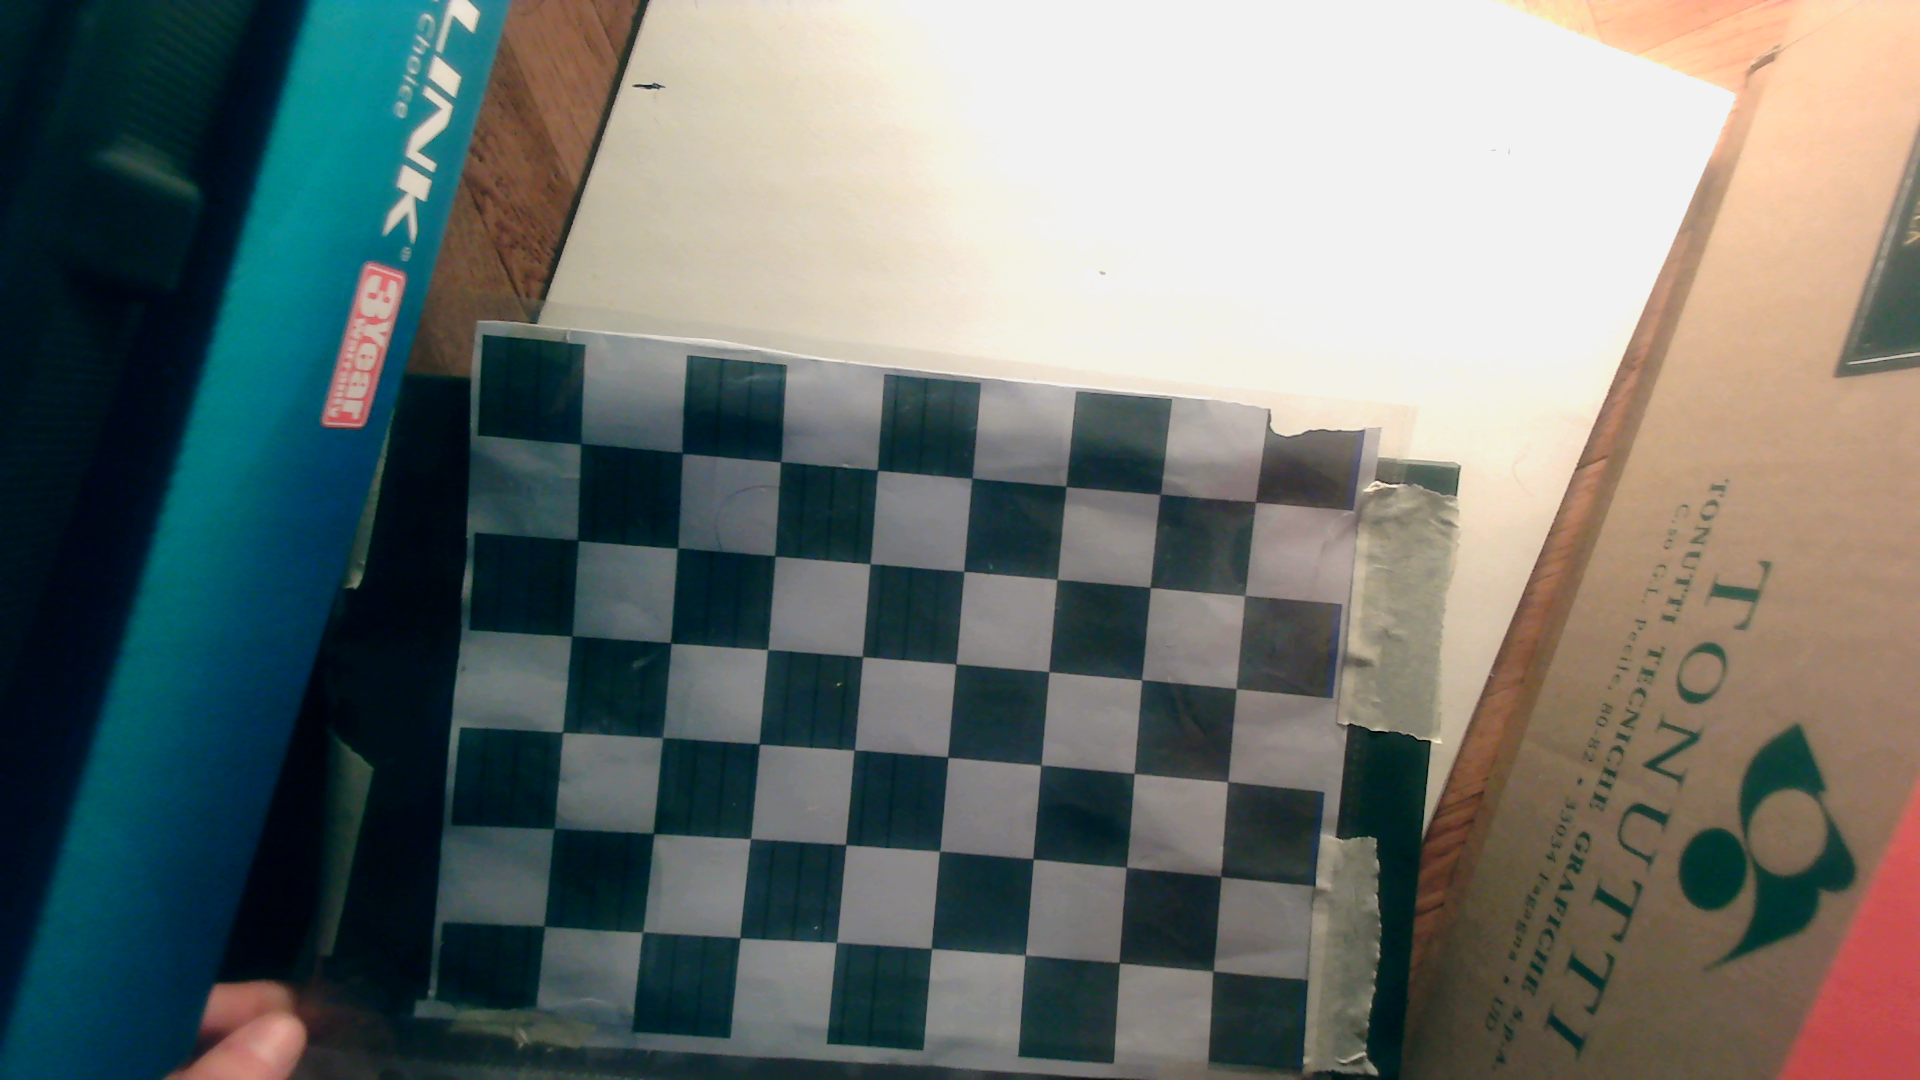
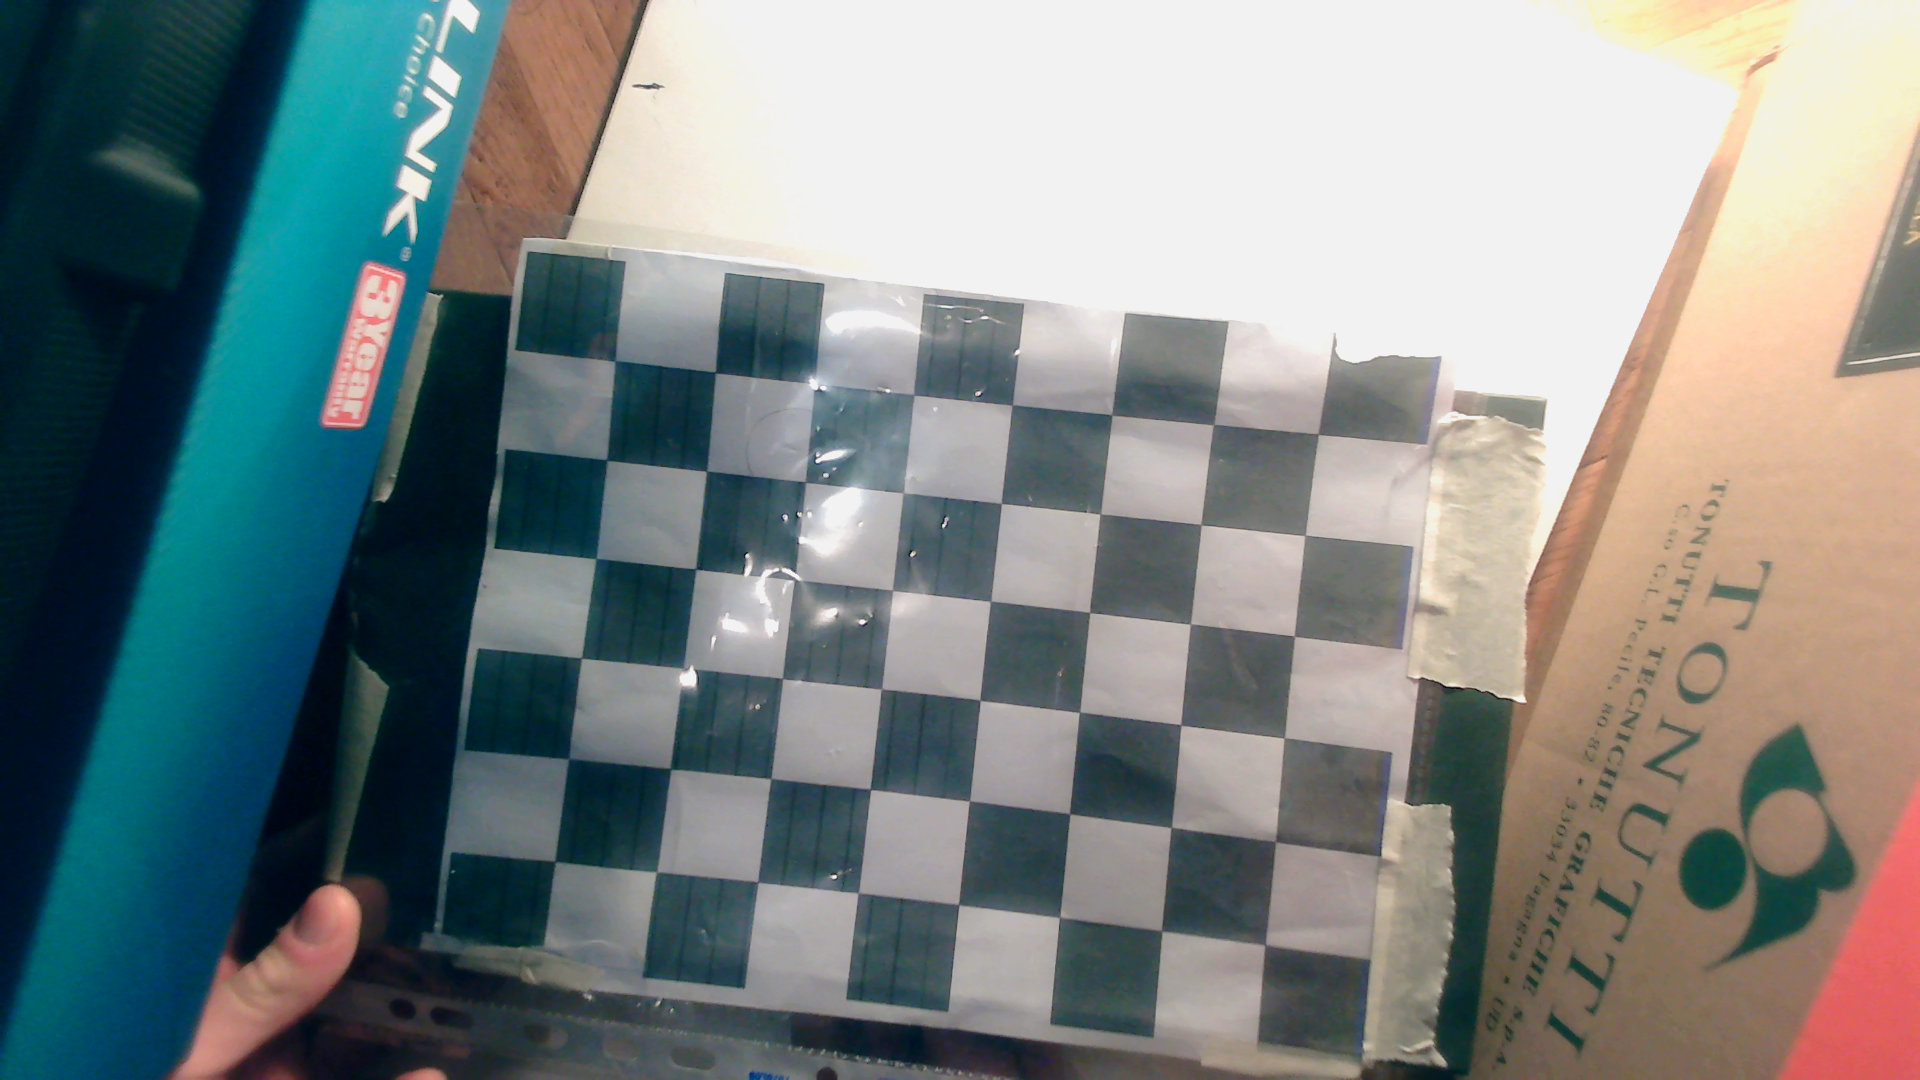
Continues trying on calibration the two cameras

diff --git a/src/calibration.m b/src/calibration.m
@@ -1,6 +1,6 @@
 % Calculate P and K matrices of the two cameras
-[P1, K1] = calibration_camera('../assets/calibration/01', 16);
-[P2, K2] = calibration_camera('../assets/calibration/02', 16);
+% [P1, K1] = calibration_camera('../assets/calibration/01', 15);
+[P2, K2] = calibration_camera('../assets/calibration/02', 15);
 
 % Calculate stereo calibration paramenters
 [F, E, deltaT] = calibration_stereo(P1, P2);
